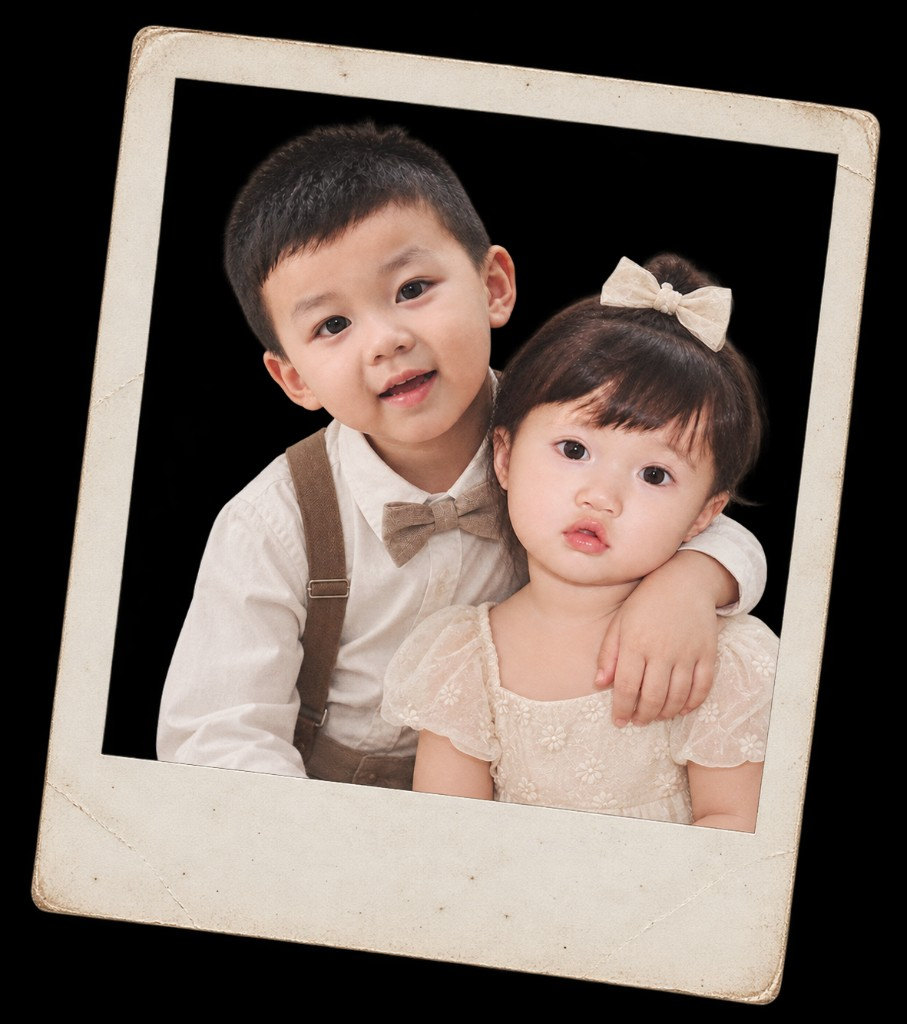
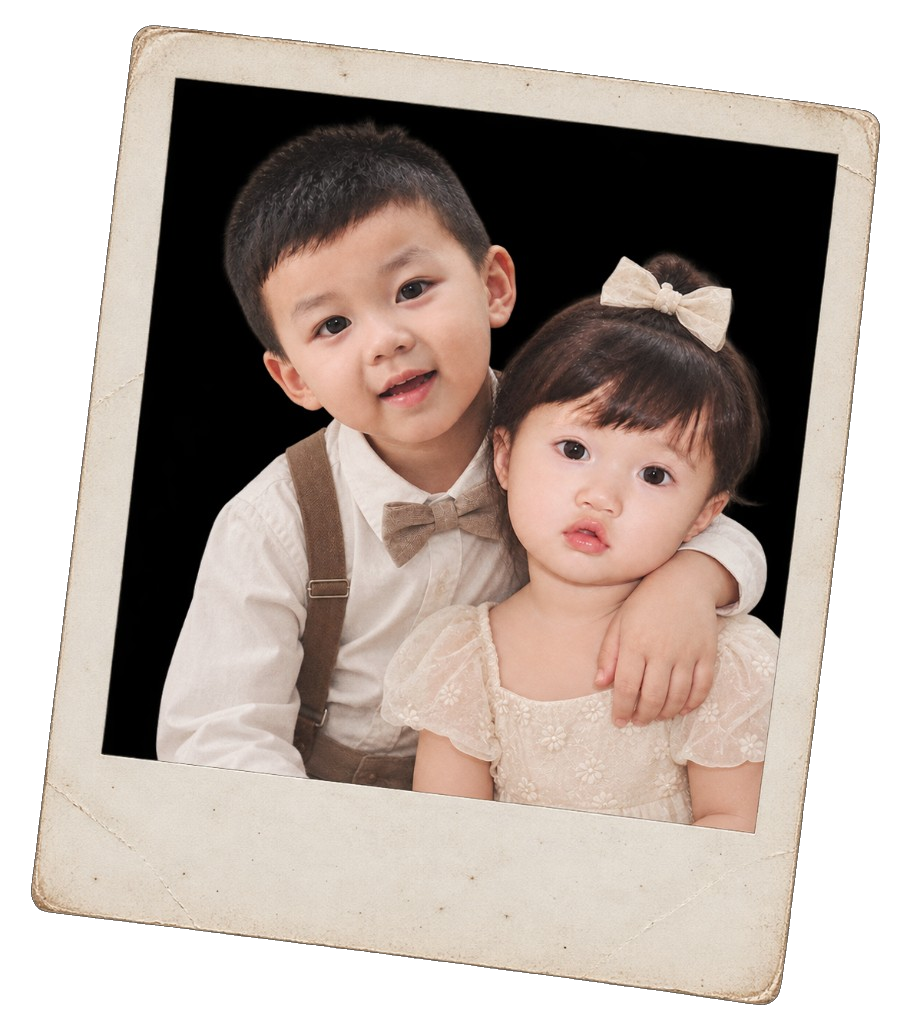
Show Dũng and Tuyền on the hero and make the polaroid background transparent.

Changed region(s): [[0.0, 0.0, 1.0, 1.0]]

diff --git a/src/components/Hero.tsx b/src/components/Hero.tsx
@@ -42,7 +42,7 @@ export function Hero() {
           {...rise(0.25)}
           className="font-serif text-[clamp(2.8rem,12vw,7.5rem)] leading-[0.95] font-light tracking-[0.14em] text-[#4a1d24] drop-shadow-[0_1px_18px_rgba(250,241,220,0.95)]"
         >
-          {invitation.brideFirst}
+          {invitation.groomFirst}
         </motion.h1>
 
         <motion.span
@@ -56,7 +56,7 @@ export function Hero() {
           {...rise(0.6)}
           className="font-serif text-[clamp(2.8rem,12vw,7.5rem)] leading-[0.95] font-light tracking-[0.14em] text-[#4a1d24] drop-shadow-[0_1px_18px_rgba(250,241,220,0.95)]"
         >
-          {invitation.groomFirst}
+          {invitation.brideFirst}
         </motion.h1>
 
         <motion.p
@@ -71,8 +71,8 @@ export function Hero() {
         {...rise(1.4)}
         className="absolute inset-x-0 bottom-8 flex flex-col items-center gap-2 text-[#5a2a2a]"
       >
-        <span className="font-serif text-[0.62rem] tracking-[0.42em] uppercase drop-shadow-[0_1px_8px_rgba(250,241,220,0.95)]">
-          Cuộn xuống
+        <span className="font-serif text-[0.62rem] tracking-[0.22em] drop-shadow-[0_1px_8px_rgba(250,241,220,0.95)]">
+          {invitation.heroScrollHint}
         </span>
         <motion.span
           aria-hidden

diff --git a/src/lib/invitation-data.ts b/src/lib/invitation-data.ts
@@ -5,8 +5,8 @@
 
 export const invitation = {
   // ---------------------------------------------------------------- couple
-  coupleShort: "Annie & Dũng",
-  brideFirst: "ANNIE",
+  coupleShort: "Dũng & Tuyền",
+  brideFirst: "TUYỀN",
   groomFirst: "DŨNG",
   brideFull: "Nguyễn Thị Thanh Tuyền (Annie)",
   groomFull: "Nguyễn Trí Dũng",
@@ -15,6 +15,7 @@ export const invitation = {
   // ------------------------------------------------------------------ hero
   heroJoiner: "and",
   heroTagline: "are getting married",
+  heroScrollHint: "Scroll down for details",
 
   // --------------------------------------------------------------- welcome
   welcomeHeading: "FRIENDS AND FAMILY",

diff --git a/src/app/layout.tsx b/src/app/layout.tsx
@@ -3,11 +3,11 @@ import { displayFont, scriptFont, serifFont } from "@/lib/fonts";
 import "./globals.css";
 
 export const metadata: Metadata = {
-  title: "Lễ Thành Hôn — Annie & Dũng",
+  title: "Lễ Thành Hôn — Dũng & Tuyền",
   description:
     "Thiệp mời lễ thành hôn của Nguyễn Thị Thanh Tuyền (Annie) & Nguyễn Trí Dũng — Chủ Nhật 17.01.2027",
   openGraph: {
-    title: "Lễ Thành Hôn — Annie & Dũng",
+    title: "Lễ Thành Hôn — Dũng & Tuyền",
     description: "Chủ Nhật 17.01.2027 — Trân trọng kính mời",
     type: "website",
   },
